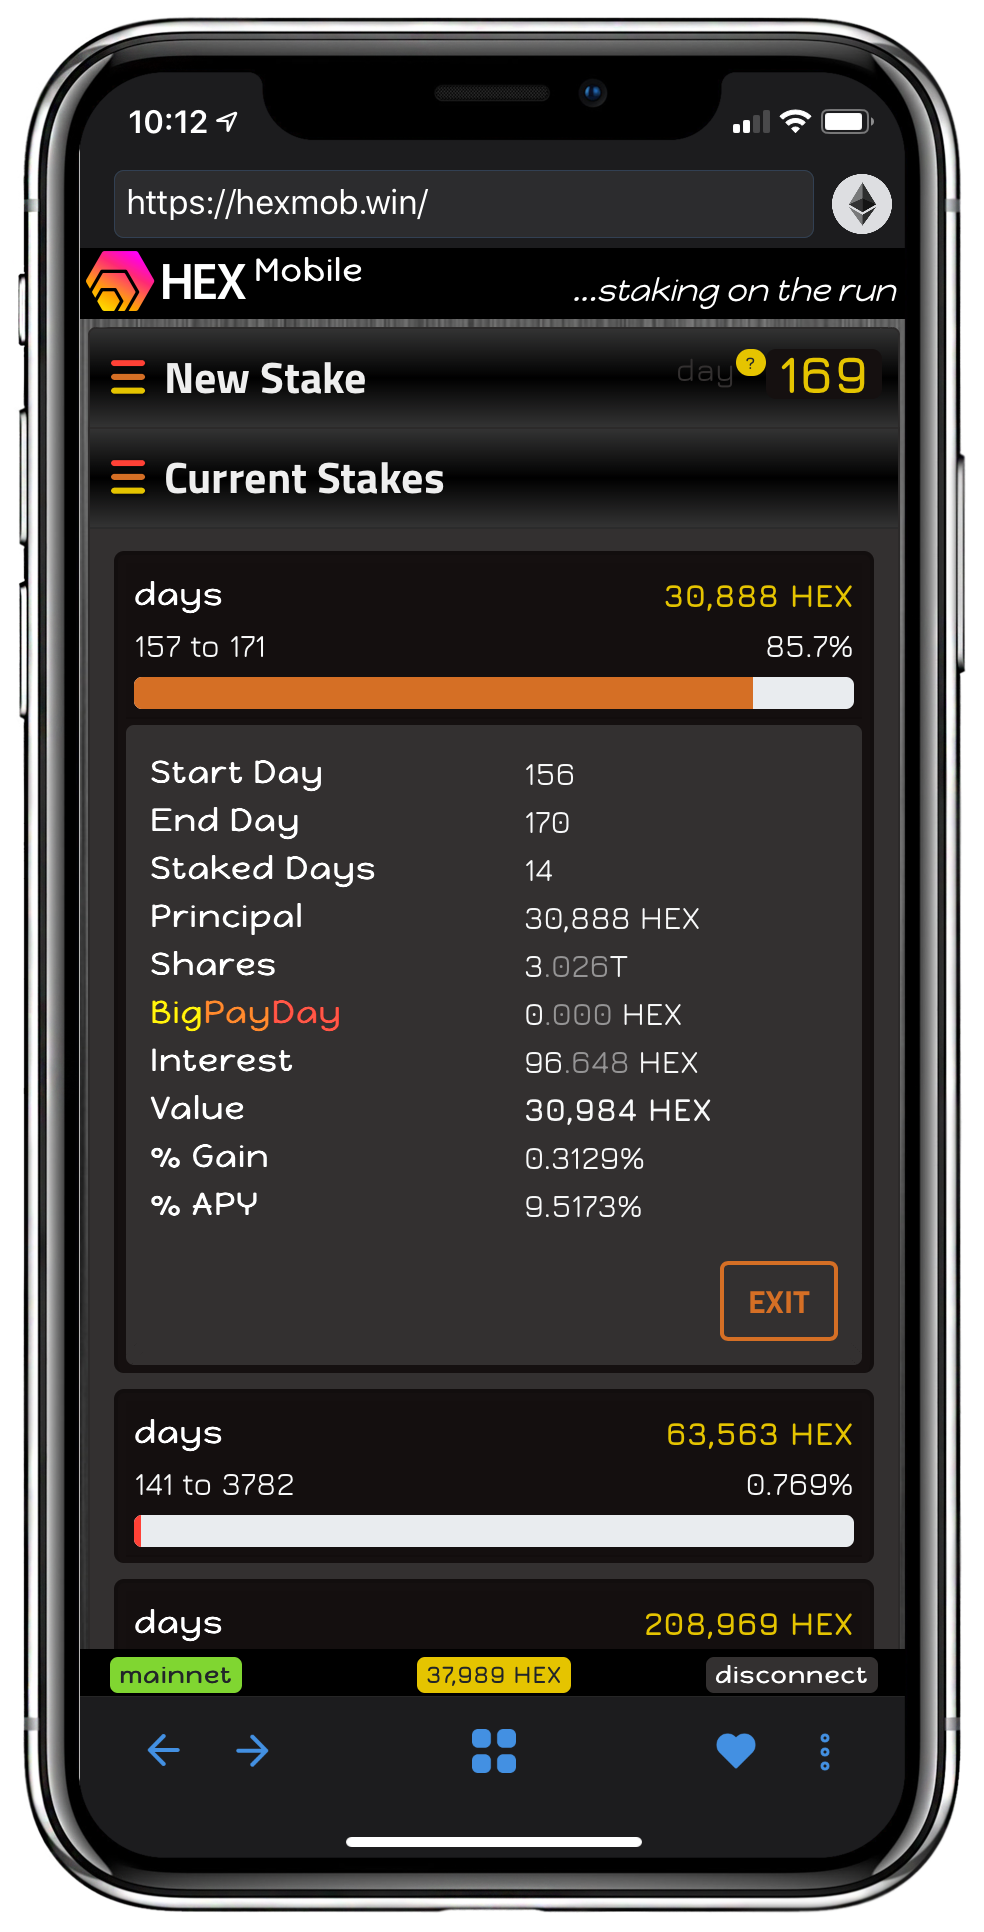
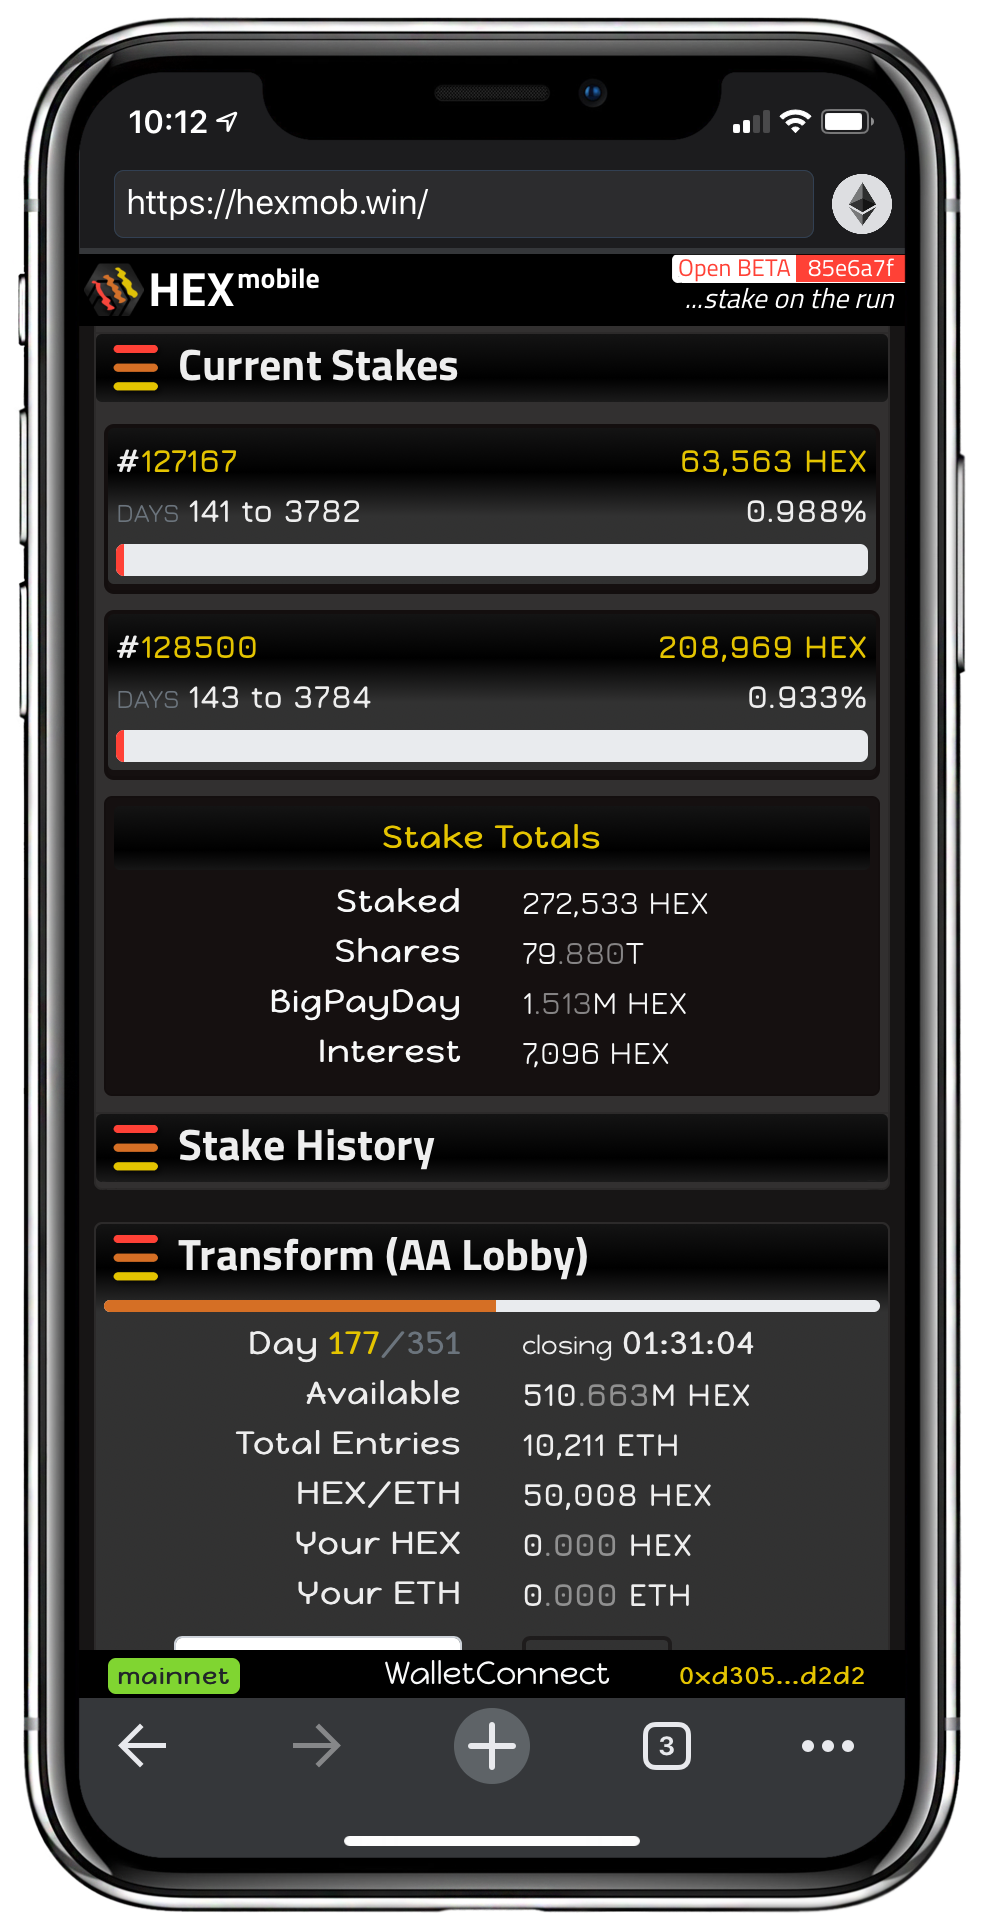
Display wallet provider in wallet status bar bottom of app. Updated screenshot images.

diff --git a/src/App.js b/src/App.js
@@ -20,10 +20,11 @@ import Portis from "@portis/web3";
 import './App.scss'
 const debug = require('debug')('App')
 if (process.env.REACT_APP_NODE_ENV === 'development') {
+    console.log('Enabling dev console logging')
+    const createDebug = require('debug')
     window.localStorage.setItem('debug', '*')
-    if (process.env.REACT_APP_REMOTE_LOGGING) {
+    if (process.env.REACT_APP_REMOTE_LOGGING === 'yes') {
         const axios = require('axios');
-        const createDebug = require('debug')
         debug.useColors = false
         debug.log = (...args) => {
             axios.get('http://serif.home:8080/'+encodeURI(JSON.stringify.call(null, args)))
@@ -31,6 +32,7 @@ if (process.env.REACT_APP_NODE_ENV === 'development') {
         }
     }
 } else {
+    console.log('Disabling dev console logging')
     window.localStorage.removeItem('debug')
 }
 
@@ -63,7 +65,6 @@ class App extends React.Component {
             referrer
         }
         window._APP = this // DEBUG remove me
-        debug('process.env: ', process.env)
     }
 
     subscribeProvider = async (provider) => {
@@ -145,6 +146,7 @@ class App extends React.Component {
     }
 
     componentDidMount = async () => {
+        debug('process.env: ', process.env)
         if (!this.provider) {
             // check first for Mobile TrustWallet
             if (window.web3 && window.web3.currentProvider.isTrust) {
@@ -153,10 +155,11 @@ class App extends React.Component {
                     rpcUrl: `https://mainnet.infura.io/v3/${process.env.REACT_APP_INFURA_ID}`
                 };
                 /* XXX: 
-                    Ancient legacy 0.5.x web3 code. provider.sendAync used only callback.
-                    It doesn't matter because TrustWallet (iOS) sends no response back to
-                    browser after signing (or not) a provider.sendAsync('send_Transaction')
-                    anyway. :'( More ominous even ...
+                    Ancient legacy 0.5.x web3 code. provider.sendAync uses only callback, no Promise.
+                    It doesn't matter because TrustWallet (iOS) sends no response back to browser
+                    after signing (or not) a provider.sendAsync('send_Transaction') anyway. :'( 
+
+                    More ominous even ...
 
                     2020-05-21: Telegram::@hewig (Tao X) referring to [@trustwallet/trust-web3-provider]
                         ................... unfortunately legacy trust provider
@@ -175,7 +178,7 @@ class App extends React.Component {
         }
         if (!this.provider) return // User will need to click the button to connect again
 
-        // this.provider.enable()
+        this.provider.enable()
         
         debug('web3 provider established')
 
@@ -315,15 +318,16 @@ class App extends React.Component {
         if (reset) {
             await this.web3Modal.clearCachedProvider()
             this.web3 = null
+            this.provider = null
         }
         this.web3Modal = new Web3Modal({
             network: "mainnet",                         // optional
             cacheProvider: false,                        // optional
             providerOptions: this.getProviderOptions()  // required
         });
-        this.provider = null
         this.provider = await this.web3Modal.connect()
         if (this.provider) {
+            debug('web3Modal getProviderInfo: ', getProviderInfo(this.provider))
             this.setState({ currentProvider: getProviderInfo(this.provider).name })
             this.componentDidMount()
         }
